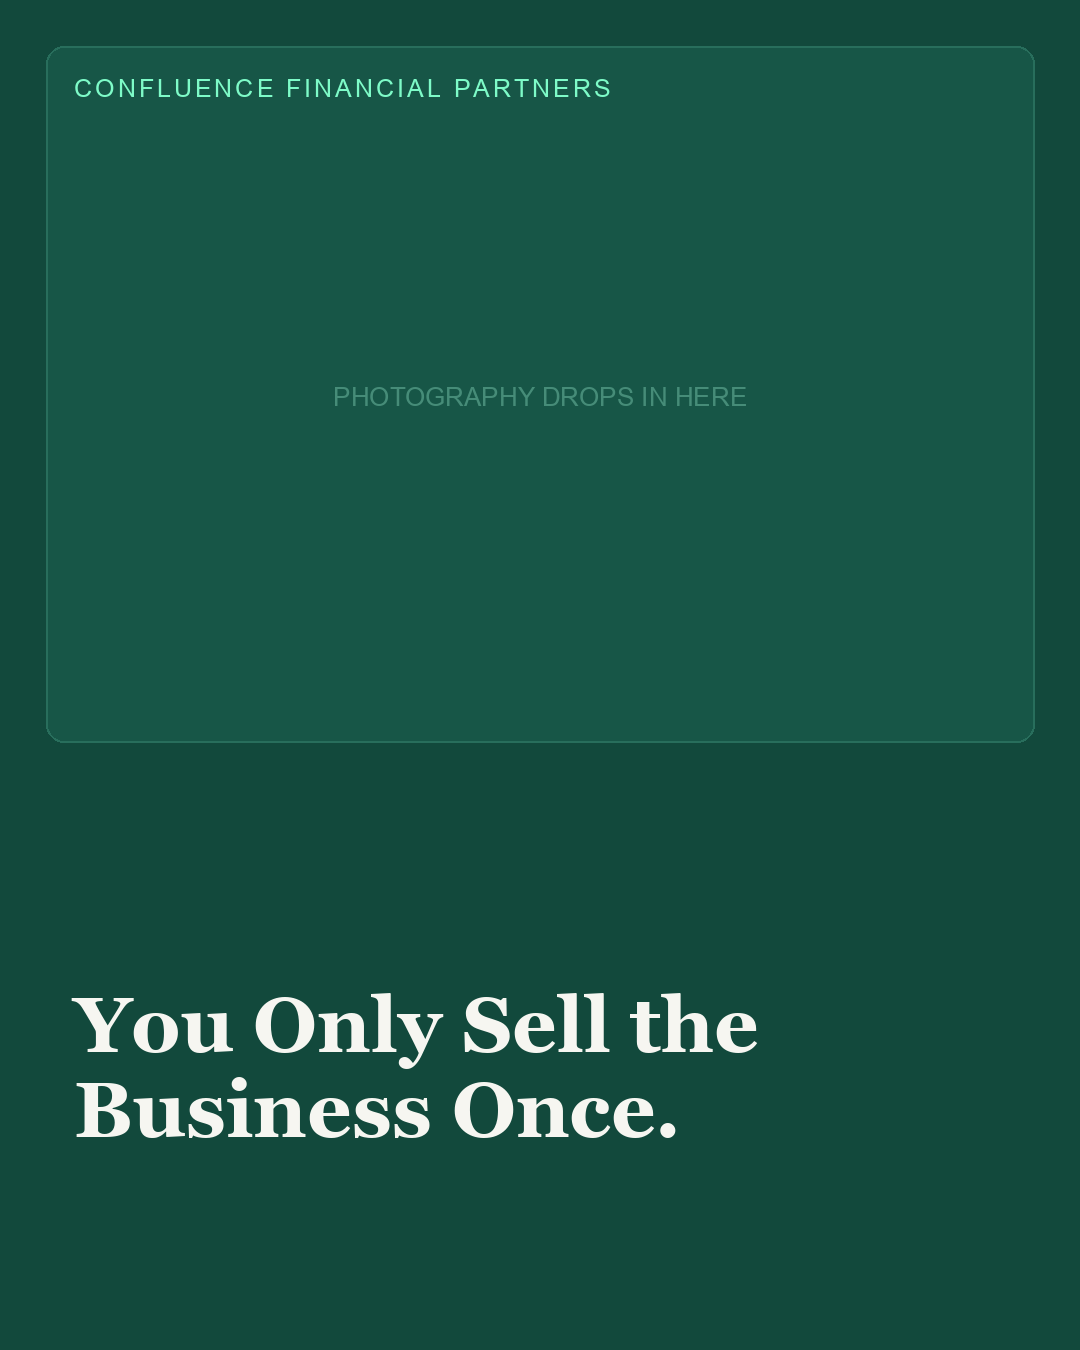
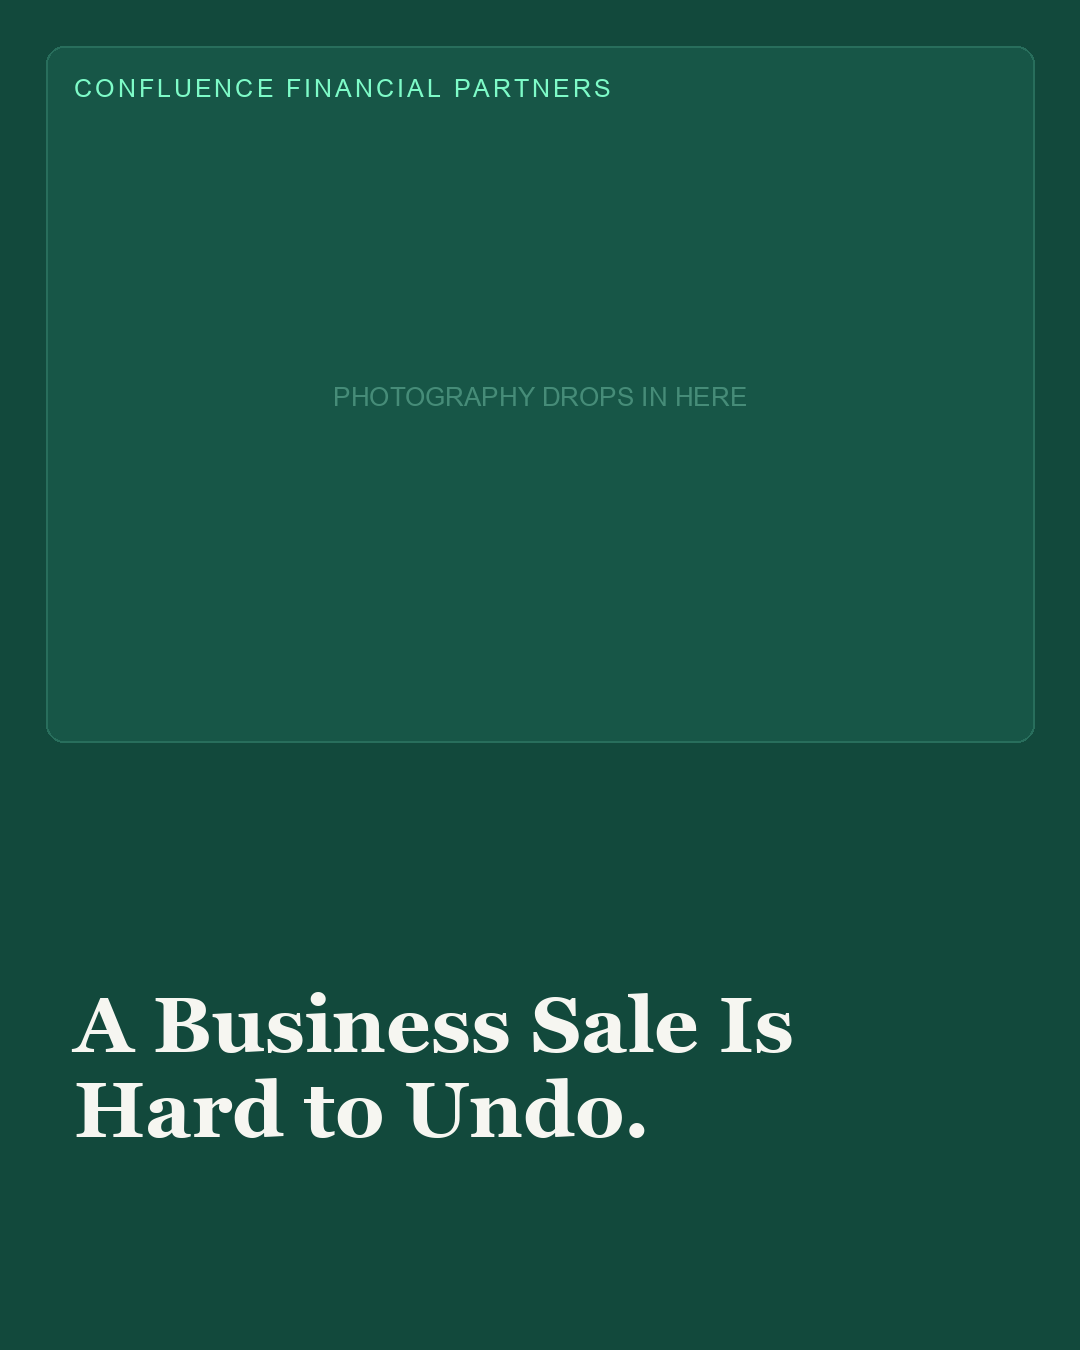
v2 consultation: Katie compliance pass (fix 'sell business once' + 3 more) + website services-alignment fixes (fees/second-opinion); add Rania sequenced-funnel sketch

Changed region(s): [[0.0611, 0.7156, 0.7333, 0.84]]

diff --git a/confluence-fp-consultation/FUNNEL-SKETCH-2026-08.md b/confluence-fp-consultation/FUNNEL-SKETCH-2026-08.md
@@ -1,0 +1,86 @@
+# CFP Meta — Sequenced Funnel (NET-NEW TEST, runs alongside v2)
+
+**Author:** Rania Khalil, Dir. Paid Media · **Date:** 2026-08-13
+**Status:** Strategy sketch. Nothing built, no budget committed. The v2 always-on set is UNTOUCHED — this is a separate campaign we test next to it (client buys in on v2 first).
+**Objective (unchanged from v2):** book HNW/UHNW consultations on CFP's live consultation page. Primary metric = cost-per-qualified-consultation (CPQC), so the two approaches read head-to-head.
+
+## Thesis
+v2 asks "can one sharp ad book a consultation?" This funnel asks "does staging the same concepts as a conversation — recognition, then the coordinated-plan reveal as the payoff, then the ask — book a better-fit consultation for less?" It's the v2 insight (coordination is the payoff, not the hook) turned into stages.
+
+## Honest headline
+A sequenced funnel lives or dies on WARM-POOL VOLUME, and CFP is a niche HNW audience in one metro. That is the whole risk. Design front-loads top-of-funnel and gives hard thresholds for when stages 2/3 turn on. If warm pools starve, flat v2 wins — and that itself is a cheap, useful finding.
+
+## 1. Stage architecture (3 stages; 2 & 3 conditional on pool size)
+
+**Stage 1 — Cold hook (build the qualified pool)**
+- Job: situational recognition hook to net-new Pittsburgh HNW; capture leaners-in as a retargetable pool. The POOL is the product, not clicks.
+- Objective: Engagement → Video Views (ThruPlay); video-viewer CAs accumulate faster/cheaper than LP pools in a thin niche. Static secondary for link clicks.
+- Audience (cold): Pittsburgh MSA, ~45–70, broad/lightly-shaped — creative qualifies (a business-sale ad is invisible to a salaried retiree). Lookalike off a CFP client list only if client shares + compliance clears; else skip.
+- v2 concepts here (door-openers): Business Sale, Concentrated Stock, Equity Comp, Second Opinion. Throttled relief-valve on-ramps: Retirement Timing, Plan for the Unplanned (volume, but wronger leads — not the lead).
+
+**Stage 2 — Warm / proof (deliver the payoff)**
+- Job: to leaners-in, deliver the turn — why a consultation with CFP beats a one-off answer. Coordination-as-payoff LIVES here.
+- Objective: Traffic (link clicks) to the consultation page (or Engagement to deepen pool first).
+- Audience (entry CAs): video viewers ≥50% (365d) and ≥75% (hotter); FB Page + IG engagers (365d); Stage 1 link clickers.
+- v2 concepts: "The Whole Picture / Managed in Pieces, or as One?" (the one differentiator ad — belongs WARM, not cold); Second Opinion re-served warm.
+
+**Stage 3 — Consultation ask (close)**
+- Job: direct low-friction invite to those who've seen concern + payoff. No new persuasion.
+- Objective: Leads/Conversions on the booking event.
+- Audience (entry): consultation-page visitors (180d), all site visitors (180d), 95% video viewers, form-starters (if page fires it).
+- v2 concepts: Legacy ("Leave a Plan They Can Follow") as closing beat + a clean consultation-ask creative, button = Request a Consultation.
+
+## 2. Exclusions / flow control
+- Stage 1 excludes everyone in Stage 2 & 3 pools (cold chases net-new only).
+- Stage 2 excludes Stage 3 pools + converters.
+- Stage 3 excludes converters.
+- Converters exit ALL: one "Booked Consultation" exclusion (thank-you URL / Schedule event, 180d) as a negative on all three sets. Single most important control.
+- Cross-campaign overlap with v2 is expected (same pool). Rec: accept it, read blended CPQC + last-touch, don't handicap either campaign with exclusions.
+
+## 3. Creative implications
+| Stage | Format | Reuse | NET-NEW |
+|---|---|---|---|
+| 1 | Video-led (6–15s) + static | v2 situational hooks | Cut those hooks as short, silent-legible, captioned video (main new lift) |
+| 2 | Short video / clean static | v2 "Whole Picture" + "Second Opinion" | A proof/credibility asset (independent, fiduciary, CFP® professional, whole-picture) — NOT results/returns |
+| 3 | Static, direct | v2 Legacy + CTA | Minimal consultation-ask creative, message-matched to live page |
+
+Compliance guardrail on Stage 2 proof asset: proof = credibility & process, NEVER results/returns/performance. Same gates as v2 (Serena + Katie/Marissa). CFP® body only; no CFA; no "coordinate" as hook.
+
+## 4. Budget + sequencing logic (volume truth)
+- Pittsburgh MSA ~2.3M: cold reach isn't the bottleneck (creative filters). WARM-POOL accumulation is.
+- CAs need ~1,000+ to serve efficiently. Video-viewer pool → ~2–4 wks; LP-visitor pool → 4–8 wks, and in this niche MAY never reach standalone size.
+- Launch sequenced, not all at once:
+  1. Wks 0–3: Stage 1 only (~100% budget). Build pool.
+  2. Turn on Stage 2 when ≥50% video pool clears ~1,000–2,000 → ~60/30/10.
+  3. Turn on Stage 3 when LP+95% pool clears ~500–1,000 → ~50/30/20 steady state.
+  4. If Stage 3 never clears: fold it into Stage 2 as a high-bid segment. 3-set → 2-set in a thin niche is the correct outcome, not failure.
+- Mechanics: ABO with a floor per warm set (opposite of v2's one-broad-set — that difference is what we test).
+- Client honesty: own budget line on TOP of v2; first bookings arrive LATER than v2 (warm stages fill first). Below a floor, run 2-set or don't run it.
+
+## 5. Measurement
+- Primary (both campaigns): cost-per-qualified-consultation; qualified judged on intake (HNW-by-situation), same definition as v2 → apples-to-apples.
+- Leading indicators: S1 cost/50%+75% view, warm-pool growth rate, 3-sec hook rate; S2 warm CTR, LP-visit rate, cost/LP visitor; S3 consultation-start rate, cost/booking, booking→qualified rate.
+- Head-to-head: funnel vs flat-v2 as two separate concurrent campaigns, even split, same destination + event, 6–8 wk read. Compare blended CPQC + qualified-booking rate. Caveat: one metro = no clean geo split, low counts = read directionally + qualitatively. Don't kill Stage 3 for "no conversions" before its pool fills.
+
+## 6. Risks / honest cautions
+1. Pool starvation (#1 failure mode) — niche + single metro; Stage 3 may never justify its own set.
+2. Thesis depends on volume it may not get — if warm starves, payoff never delivered.
+3. Frequency/fatigue spikes fast in small HNW pools.
+4. Longer time-to-signal than v2.
+5. Attribution muddiness at low volume.
+6. Meta's algo prefers consolidation (v2 is already that) — we're betting against the default; pays only if staged messaging lifts QUALITY.
+7. Bigger compliance surface (proof asset most likely to drift toward performance language).
+
+## 7. How to pitch to the client
+- Alongside v2, never instead. v2 stays as is. Separate campaign, own budget line.
+- One-liner: "v2 is the sharpest single shot. The funnel is the same concepts staged as a conversation — recognition first, the coordinated-plan reveal as the payoff, the ask last. Run side by side, let cost-per-qualified-consultation pick the winner."
+- Two honest expectations: own budget; first bookings arrive later.
+- What we're buying: whether sequencing lowers CPQC or raises booking quality enough to justify complexity. If not, learned cheaply; keep v2 as workhorse.
+- Compliance identical to v2.
+
+## Open decisions for Bill
+1. Green-light the test in principle (rec: yes — cheap, controlled, tests the v2 payoff thesis).
+2. Funnel budget line on top of v2 (rec: give the number; below a floor → 2-set version).
+3. Pre-agree Stage-3-as-its-own-set vs folded into Stage 2 (rec: agree now).
+4. Client list for a lookalike — will CFP share + does compliance clear? (rec: ask; biggest lever on cold pool quality).
+5. New creative go-ahead: Stage 1 video cuts + one Stage 2 proof asset (rec: yes; Sofia/Aaliyah/Serena + Katie gate).
